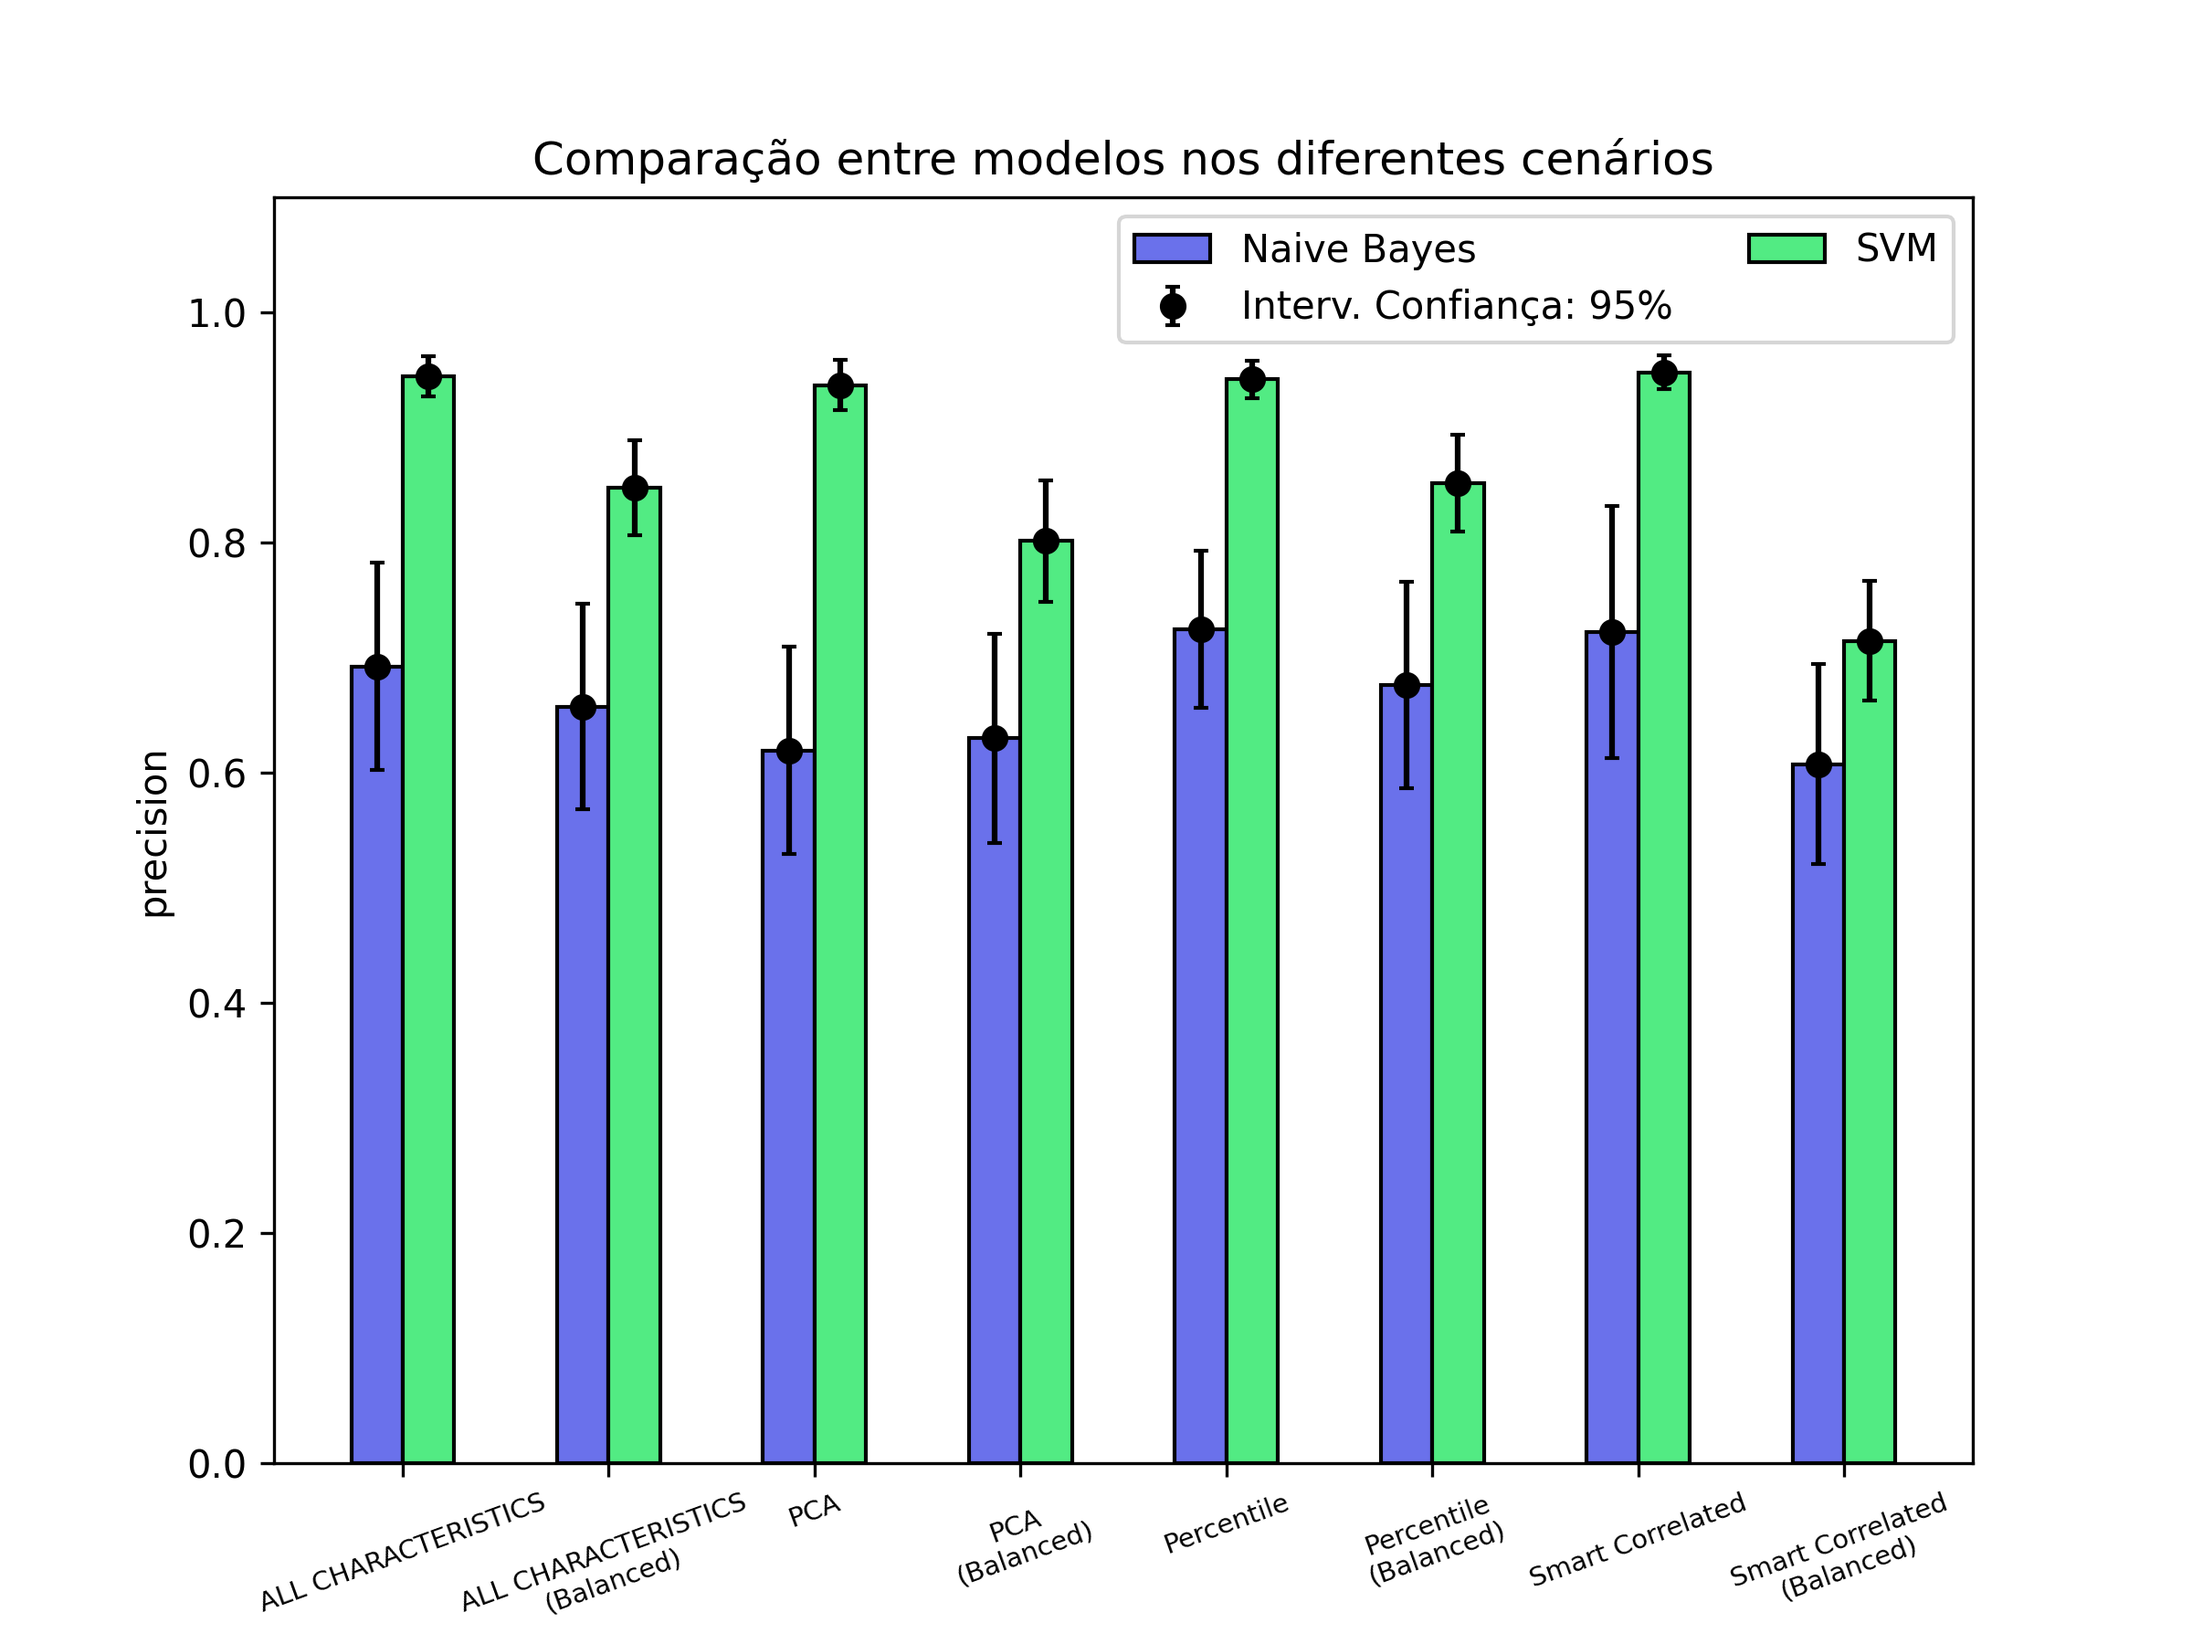
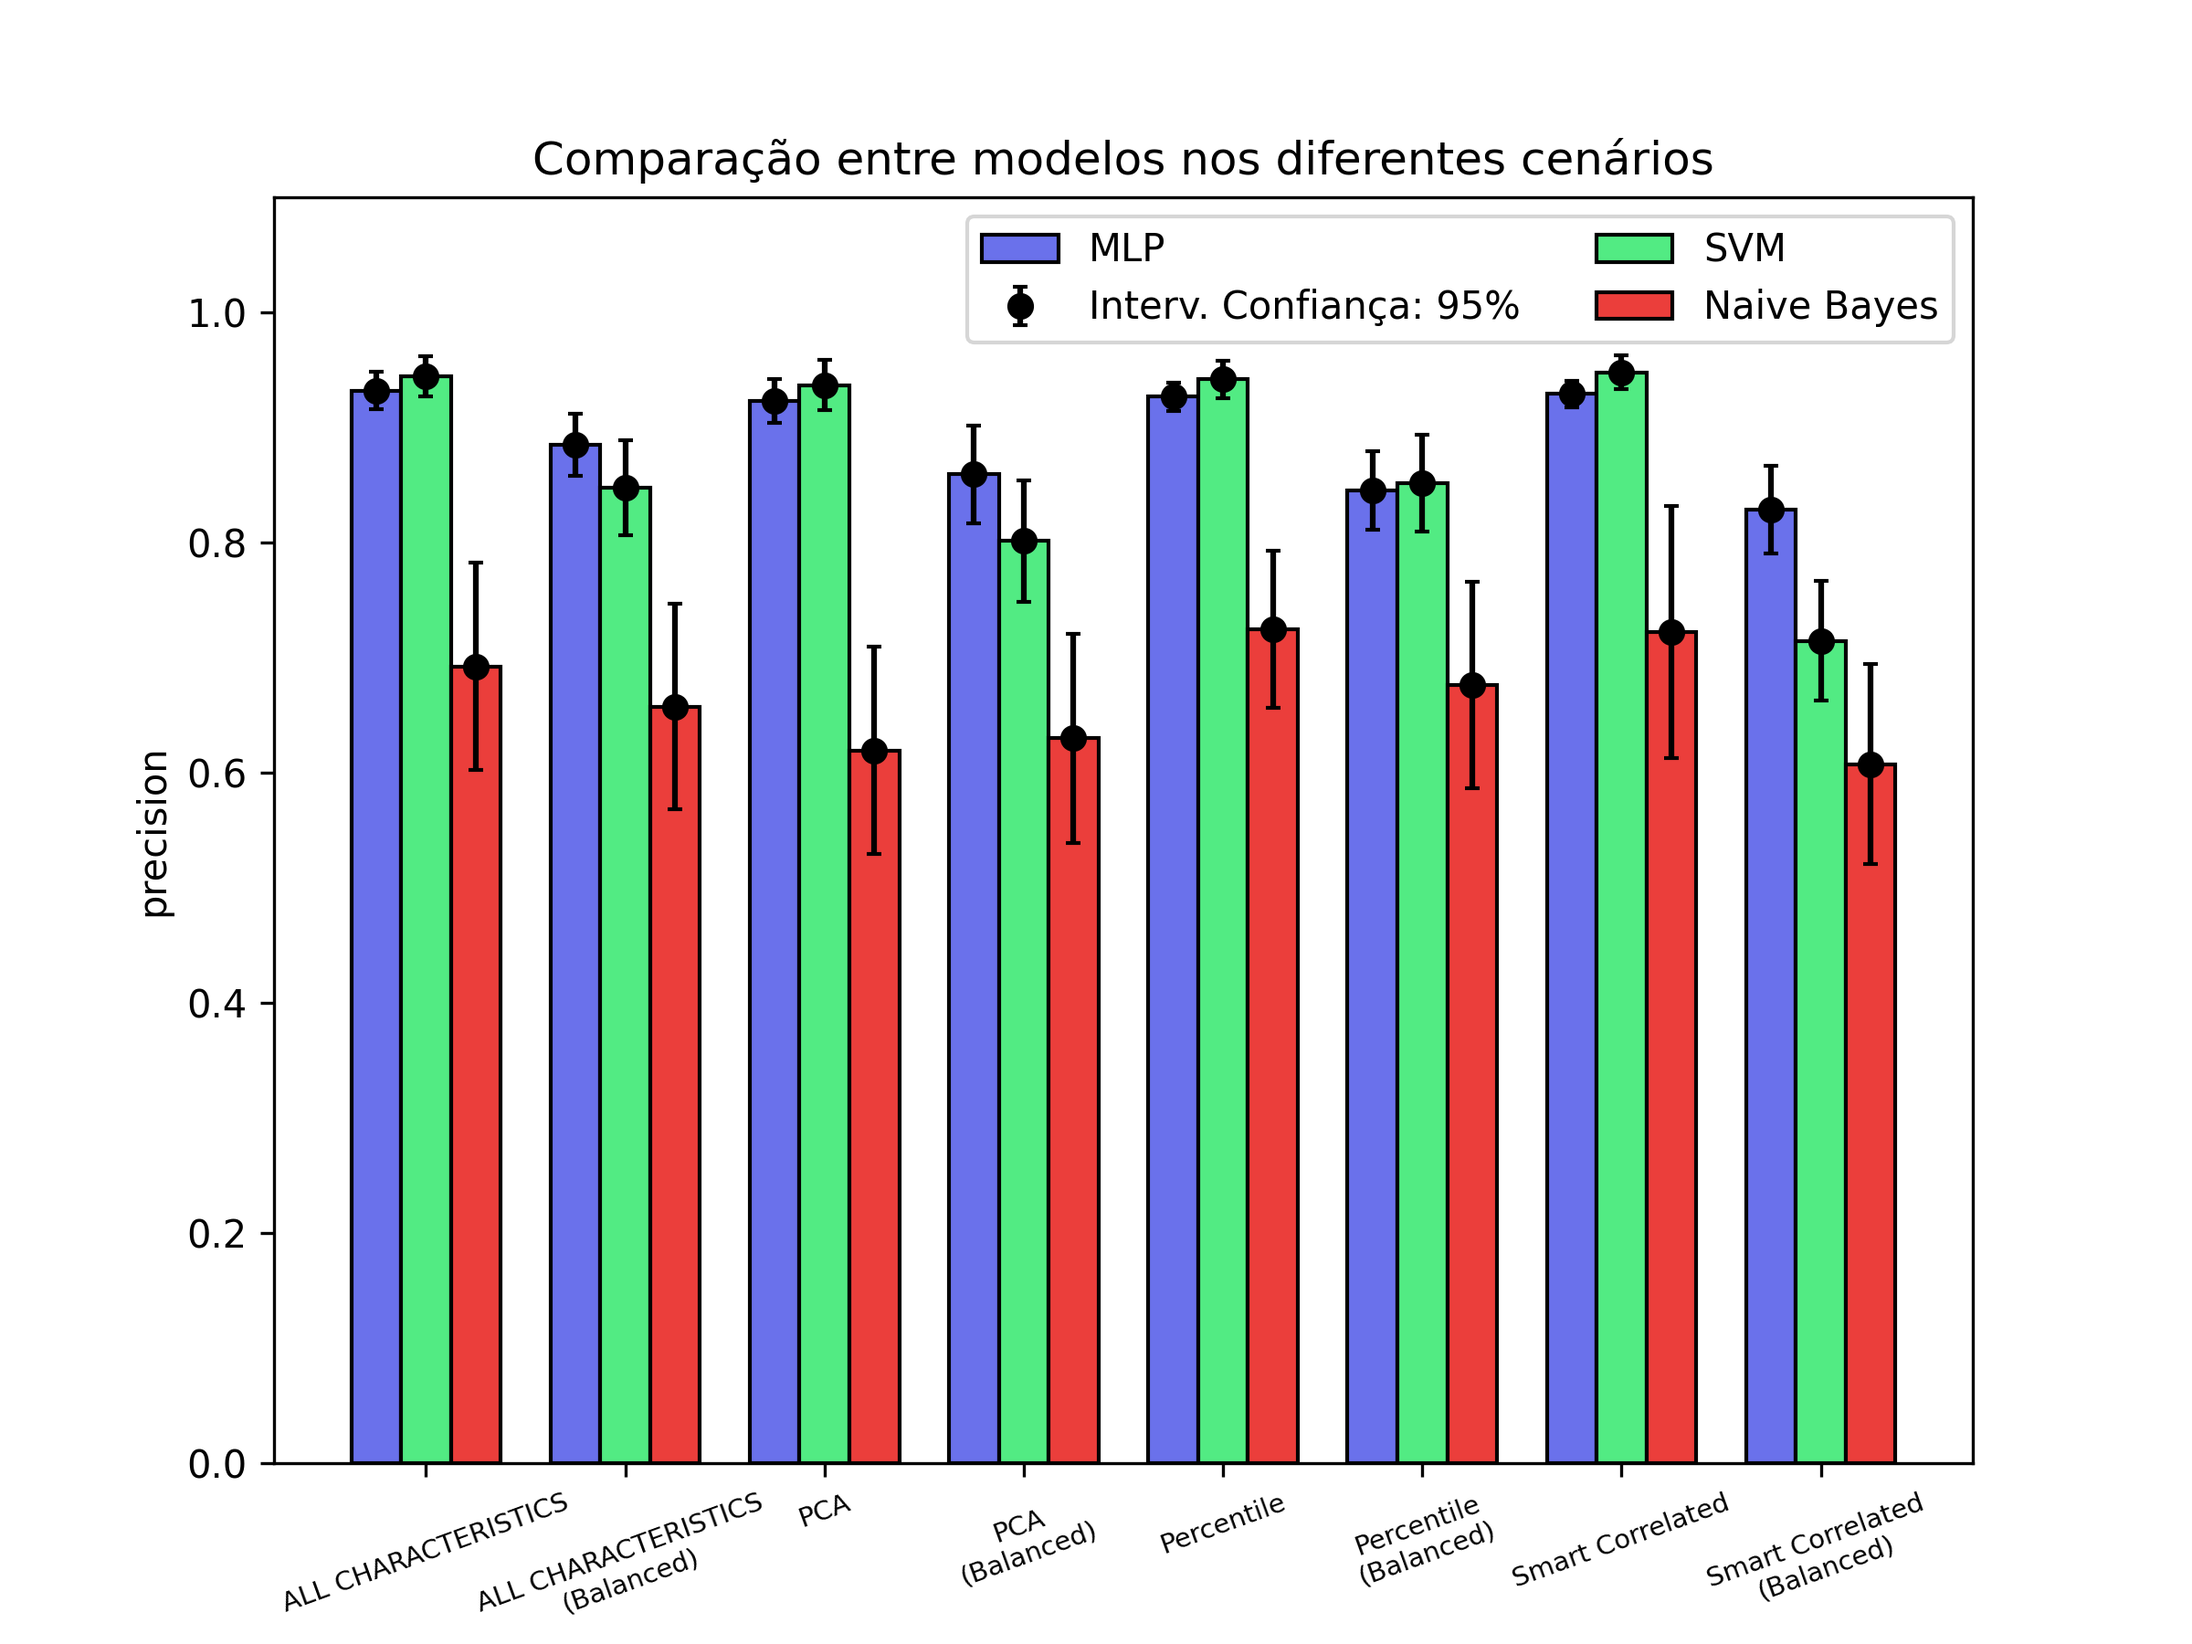
Adds MLP

Changed region(s): [[0.1562, 0.1244, 0.875, 0.9956], [0.125, 0.9644, 0.1562, 0.9956]]

diff --git a/src/train/models.py b/src/train/models.py
@@ -3,6 +3,7 @@ from typing import Dict, List
 from sklearn.base import ClassifierMixin
 from sklearn.naive_bayes import GaussianNB
 from sklearn.svm import SVC
+from sklearn.neural_network import MLPClassifier
 
 
 class Model:
@@ -44,6 +45,18 @@ class SVM(Model):
     ]
 
 
+class MLP(Model):
+    name = "MLP"
+    classifier = MLPClassifier(random_state=0, max_iter=200, early_stopping=True)
+    param_grid: List[Dict] = [
+        {
+            "clf__hidden_layer_sizes": [(10,), (10, 10), (10, 10, 10)],
+            "clf__activation": ["identity", "logistic", "tanh", "relu"],
+            "clf__solver": ["adam"],
+        }
+    ]
+
+
 MODELS = [
-    SVM(),
+    MLP(),
 ]

diff --git a/src/train/train.py b/src/train/train.py
@@ -12,7 +12,7 @@ from src.train.experiment import Experiment
 from src.train.models import MODELS
 from src.train.scenarios import SCENARIOS
 
-PARALLEL_JOBS = 9
+PARALLEL_JOBS = 2
 
 
 def run_experiment(experiment: Experiment, X, y, metrics_folder):
